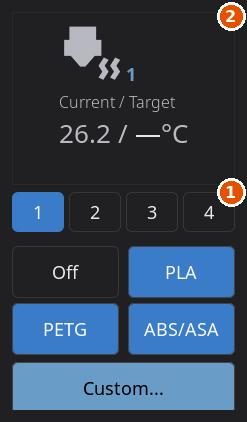
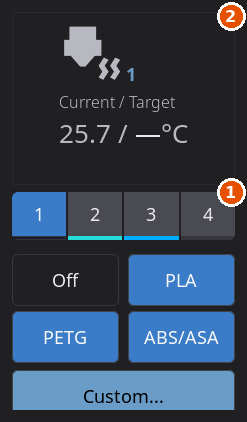
docs: U1 update_manager wording matches the installer; refresh the rc.3 tool-picker screenshots

Changed region(s): [[0.0283, 0.4313, 0.9636, 0.955], [0.2834, 0.2773, 0.3684, 0.3389], [0.3968, 0.2773, 0.4534, 0.3389]]

diff --git a/docs/devel/printers/SNAPMAKER_U1_SUPPORT.md b/docs/devel/printers/SNAPMAKER_U1_SUPPORT.md
@@ -395,7 +395,7 @@ These are resolution-specific issues, not Snapmaker-specific. Any 480x320 device
 - **Auto-start requires `/oem/.debug`** -- The overlay filesystem is wiped on boot unless `/oem/.debug` exists. This flag must be created once during installation to persist the boot-launcher hook (see [How HelixScreen takes over the display](#how-helixscreen-takes-over-the-display)).
 - **WiFi management** -- Stopping `unisrv` (stock UI) does not affect WiFi — the U1 uses standard `wpa_supplicant` managed by the OS. HelixScreen has its own WiFi manager with `wpa_supplicant` support.
 - **Remote screen ("gui" webcam)** -- Wired up via the U1 platform hook (`assets/config/platform/hooks-snapmaker-u1.sh`): `start_remote_screen` launches the firmware's `fb-http` tool on every HelixScreen start (so it survives the overlay boot-glob trap for free — the hook already runs on every boot), gated on the PAXX `web remote_screen` toggle. **The working path is fbdev + the in-app fb0 mailbox mirror.** Every shipping `fb-http` (on-device build, mainline `paxx12/screen-apps`, and the exact commit the Extended-Firmware submodule pins) reads `/dev/fb0` and exposes only `--port/--bind/--fb/--touch/--html-dir`; **no `fb-http` with a DRM backend exists in any public/shipping source** (verified 2026-07-09). HelixScreen renders into its own DRM dumb buffer and never touches `/dev/fb0`, so on its own the fbdev daemon would serve a stale frame — the hook therefore exports `HELIX_REMOTE_SCREEN_FB0=/dev/fb0` on the fbdev path, and HelixScreen mirrors each rendered frame into `/dev/fb0` (`RemoteScreenManager`/`Fb0MailboxSink`, tapped from the flush hook), so `fb-http`'s snapshot is the live UI. Hardware-verified 2026-07-09: fb0 is decoupled from the DRM scanout (writing to it does not disturb the panel), BGRA maps straight through (plain memcpy), and the served snapshot matched what was written. The hook still **probes** the tool (`_remote_screen_backend_args`) and would prefer a `--backend drm` capture path *if* a DRM-capable `fb-http` ever ships (no mirror needed then) — but that is dormant/forward-looking today. nginx `/screen/` route (`/etc/nginx/fluidd.d/remote-screen.conf`) and the `[webcam gui]` Moonraker slot are provided by the firmware — but the `[webcam gui]` section ships **commented out** in `extended/moonraker/04_remote_screen.cfg`. Setting `web remote_screen` in `extended2.cfg` alone only gates fb-http startup; the firmware-config web UI toggle (/usr/local/share/firmware-config/functions/12_settings_remote_screen.yaml) is what uncomments `[webcam gui]`, sets `enabled: true`, and restarts `S99fb-http` (= HelixScreen, via the hijacked delegate) plus Moonraker. Enabling by hand requires replicating all of that (`extended-config.py add/uncomment/update` + both restarts).
-- **Two benign Moonraker warnings on buildroot** -- After install, Mainsail/Fluidd surface *"Unable to find DBus PolKit Interface"* (Moonraker's always-loaded `machine` component on a no-PolKit OS) and *"Unable to initialize System Update Provider for distribution: buildroot"* (Moonraker's `update_manager` initializes a system/OS package provider by default, which can't detect apt/PackageKit on buildroot). The PolKit one is not ours — it's inherent to Moonraker on buildroot and re-surfaces because our installer restarts Moonraker. The system-update one is triggered by us adding `[update_manager helixscreen]` (loading the component pulls in the default system provider); it can be silenced with a top-level `[update_manager]` / `enable_system_updates: False`, which doesn't affect HelixScreen's own one-click updater. Both are harmless. Same condition applies to K1/K2 (also buildroot).
+- **Two benign Moonraker warnings on buildroot** -- After install, Mainsail/Fluidd surface *"Unable to find DBus PolKit Interface"* (Moonraker's always-loaded `machine` component on a no-PolKit OS) and *"Unable to initialize System Update Provider for distribution: buildroot"* (Moonraker's `update_manager` initializes a system/OS package provider by default, which can't detect apt/PackageKit on buildroot). The PolKit one is not ours — it's inherent to Moonraker on buildroot and re-surfaces because our installer restarts Moonraker. The system-update one appears whenever Moonraker loads the `update_manager` component without `enable_system_updates: False`. Stock U1 Moonraker loads no `update_manager` at all (`/machine/update/status` returns 404), so nothing triggers it until the installer runs. The U1's Moonraker still ships the old zip updater module (no `asset_name` support, #993), so `configure_moonraker_updates` never writes `[update_manager helixscreen]` there: it removes a stale one if present, then `disable_system_updates_on_buildroot` adds a bare `[update_manager]` with `enable_system_updates: False` (stock: creates the section; where one exists, merges the key into it; a PAXX rig ends up with exactly that and no helixscreen section). In-app updates are HelixScreen's own updater. Both are harmless. Same condition applies to K1/K2 (also buildroot).
 
 ## Future Work
 

diff --git a/docs/user/guide/install-u1.md b/docs/user/guide/install-u1.md
@@ -166,7 +166,7 @@ Versions of HelixScreen before 1.0.4 switched off the stock screen on stock firm
 
 - **Any firmware update brings the stock screen back.** Run the installer with `--update` afterwards, as in [Upgrading the printer's firmware](#upgrading-the-printers-firmware-with-helixscreen-installed).
 - **Seeing the screen in Mainsail or Fluidd.** On PAXX firmware, the built-in "gui" webcam shows the live HelixScreen screen, and you can tap it to control the printer. Turn on **Remote Screen** in the firmware settings web page at `http://<printer-ip>/firmware-config/`. Editing the config file by hand is not enough. Setup and troubleshooting: [Supported Printers: Snapmaker U1](supported-printers.md#snapmaker-u1-snapswap).
-- **Two Moonraker warnings you may see.** Mainsail and Fluidd can show "Unable to find DBus PolKit Interface" and "Unable to initialize System Update Provider for distribution: buildroot". Both come from Moonraker looking for an operating-system package manager, which the U1's firmware does not have. PAXX firmware already turns that check off (`enable_system_updates: False` in the `[update_manager]` section of `moonraker.conf`), so they do not appear there. On stock firmware the installer turns the check off, which normally clears them. If they still appear, they are harmless: they do not affect HelixScreen or printing.
+- **Two Moonraker warnings you may see.** Mainsail and Fluidd can show "Unable to find DBus PolKit Interface" and "Unable to initialize System Update Provider for distribution: buildroot". Both come from Moonraker looking for an operating-system package manager, which the U1's firmware does not have. PAXX firmware already turns that check off (`enable_system_updates: False` in the `[update_manager]` section of `moonraker.conf`), so they do not appear there. Stock firmware's Moonraker has no `[update_manager]` section at all, and the installer adds one containing only `enable_system_updates: False`, so the warnings should not appear there either. The installer does not add a `[update_manager helixscreen]` section on the U1, because its Moonraker is too old to update HelixScreen safely; update from the screen instead (**Settings > Updates**). If the warnings still appear, they are harmless: they do not affect HelixScreen or printing.
 - **Flow calibration** (Snapmaker's "dynamic flow calibration") is a pre-print option on the screen. To run it for prints started from the slicer, see [Snapmaker U1: flow calibration](printing.md#snapmaker-u1-flow-calibration).
 
 ## See also

diff --git a/docs/user/guide/temperature.md b/docs/user/guide/temperature.md
@@ -44,7 +44,7 @@ On a single-nozzle printer the row simply says **Nozzle** and the header has no 
 
 ![The Temperature card on a multi-head printer](../../images/user/controls-nozzle-chooser.png)
 
-1. The tool button, which opens the tool picker.
+1. The tool chip in the card header, which opens the tool picker.
 2. The nozzle row for the tool the card is aimed at.
 
 ---
